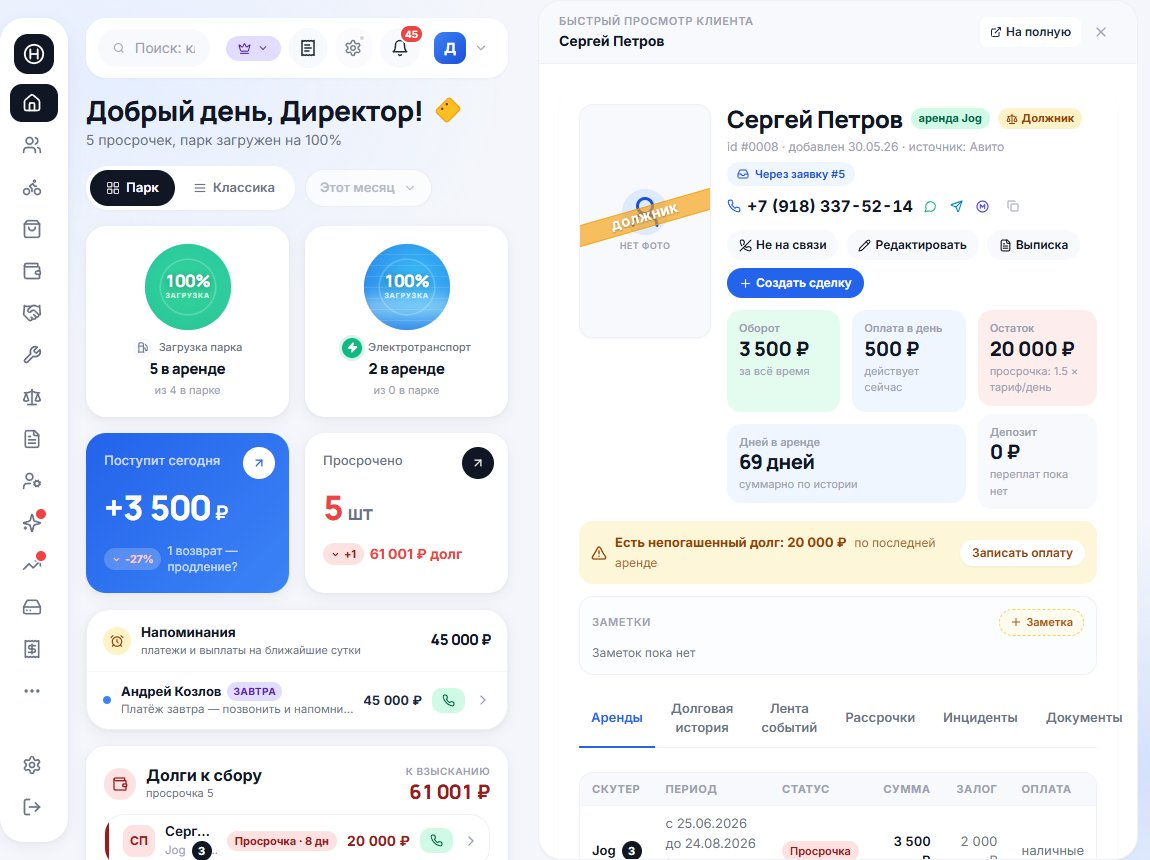
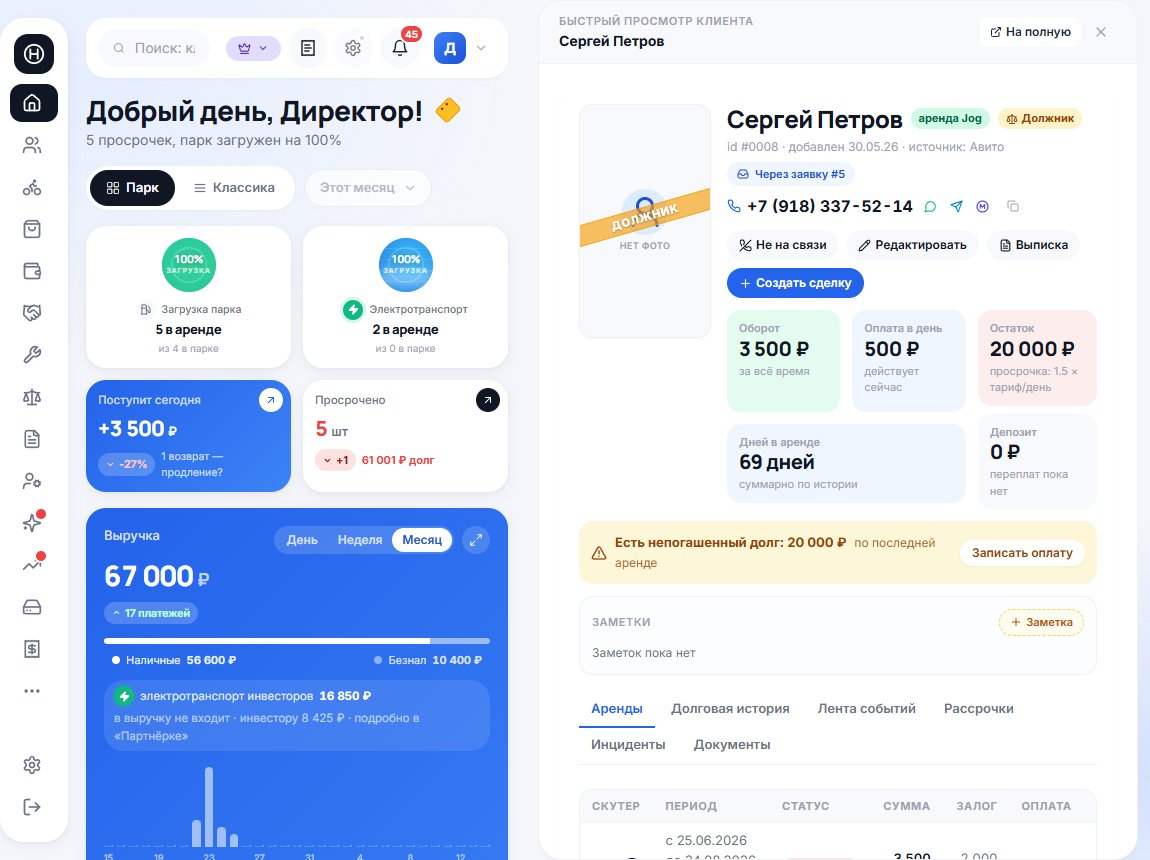
docs(развитие): пункт 2.27 — компактные плитки и выручка рядом с карточкой

diff --git a/apps/web/src/data/progress.ts b/apps/web/src/data/progress.ts
@@ -1900,6 +1900,17 @@ export const progressItems: ProgressItem[] = [
         ],
       },
       {
+        tag: "fix",
+        text:
+          "Дальше — само место. Плитки при открытой карточке занимали половину экрана, хотя цифры и так на виду: теперь они вдвое меньше и стоят попарно — две загрузки парка в одной строке, «Поступит сегодня» и «Просрочено» во второй. Освободившаяся половина отдана «Выручке» с графиком и списком платежей за месяц: раньше она уезжала в самый низ страницы, под ленту событий. Если места мало даже на две колонки — выручка встаёт под плитками, а не ломается пополам. Ради этой раскладки карточка готова уступить немного ширины, но только когда это действительно помогает.",
+        imgs: [
+          {
+            src: "/progress/v6-drawer-compact.jpg",
+            label: "Слева компактные плитки, справа выручка и платежи",
+          },
+        ],
+      },
+      {
         tag: "bug",
         text:
           "На телефоне «Продажи» и «Выкуп» рисовали десктопную панель поверх мобильной шапки: две шапки подряд, дублированный поиск, а плашка «Смотрю как: Директор» ломалась на три строки и выталкивала иконки за экран.",
